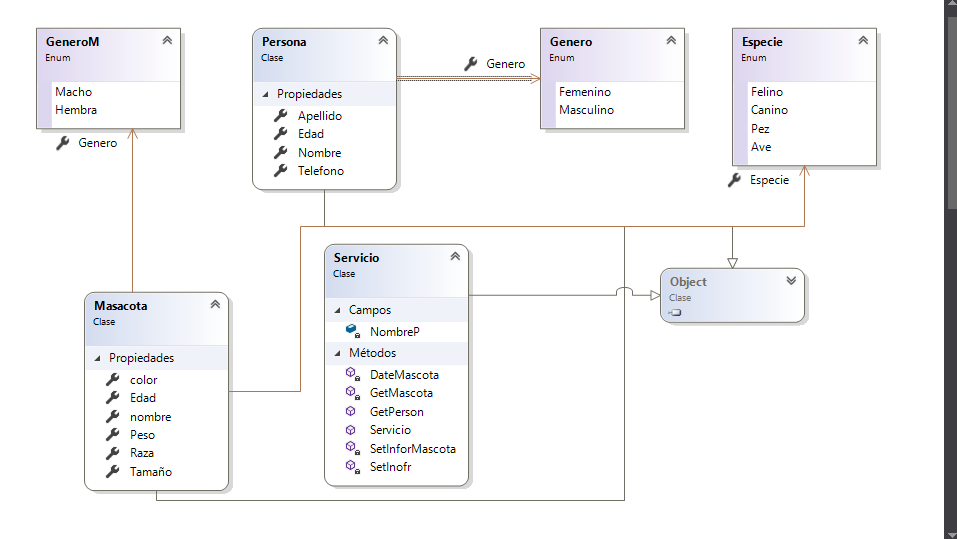
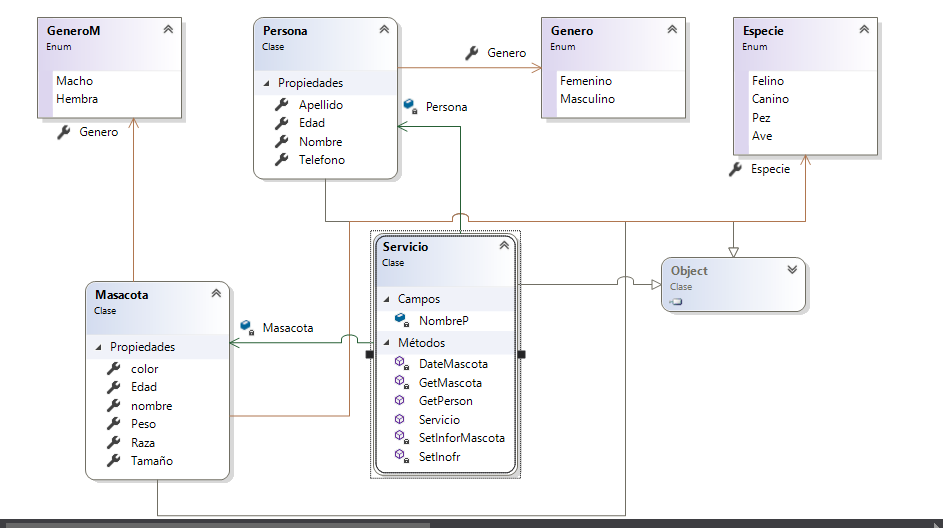
Add files via upload

Changed region(s): [[0.0615, 0.0303, 0.9533, 0.9394], [0.0, 0.0, 1.0, 1.0], [0.0308, 0.0303, 0.2153, 0.2727]]

diff --git a/Servicio_de_adopcion/Servicio.cs b/Servicio_de_adopcion/Servicio.cs
@@ -9,6 +9,8 @@ namespace Servicio_de_adopcion
     class Servicio
     {
         private string NombreP;
+        Persona Persona = new Persona();
+        Masacota Masacota = new Masacota();
         public Servicio()
         {
             Console.WriteLine("Bienvenido a servicio de Adopción");
